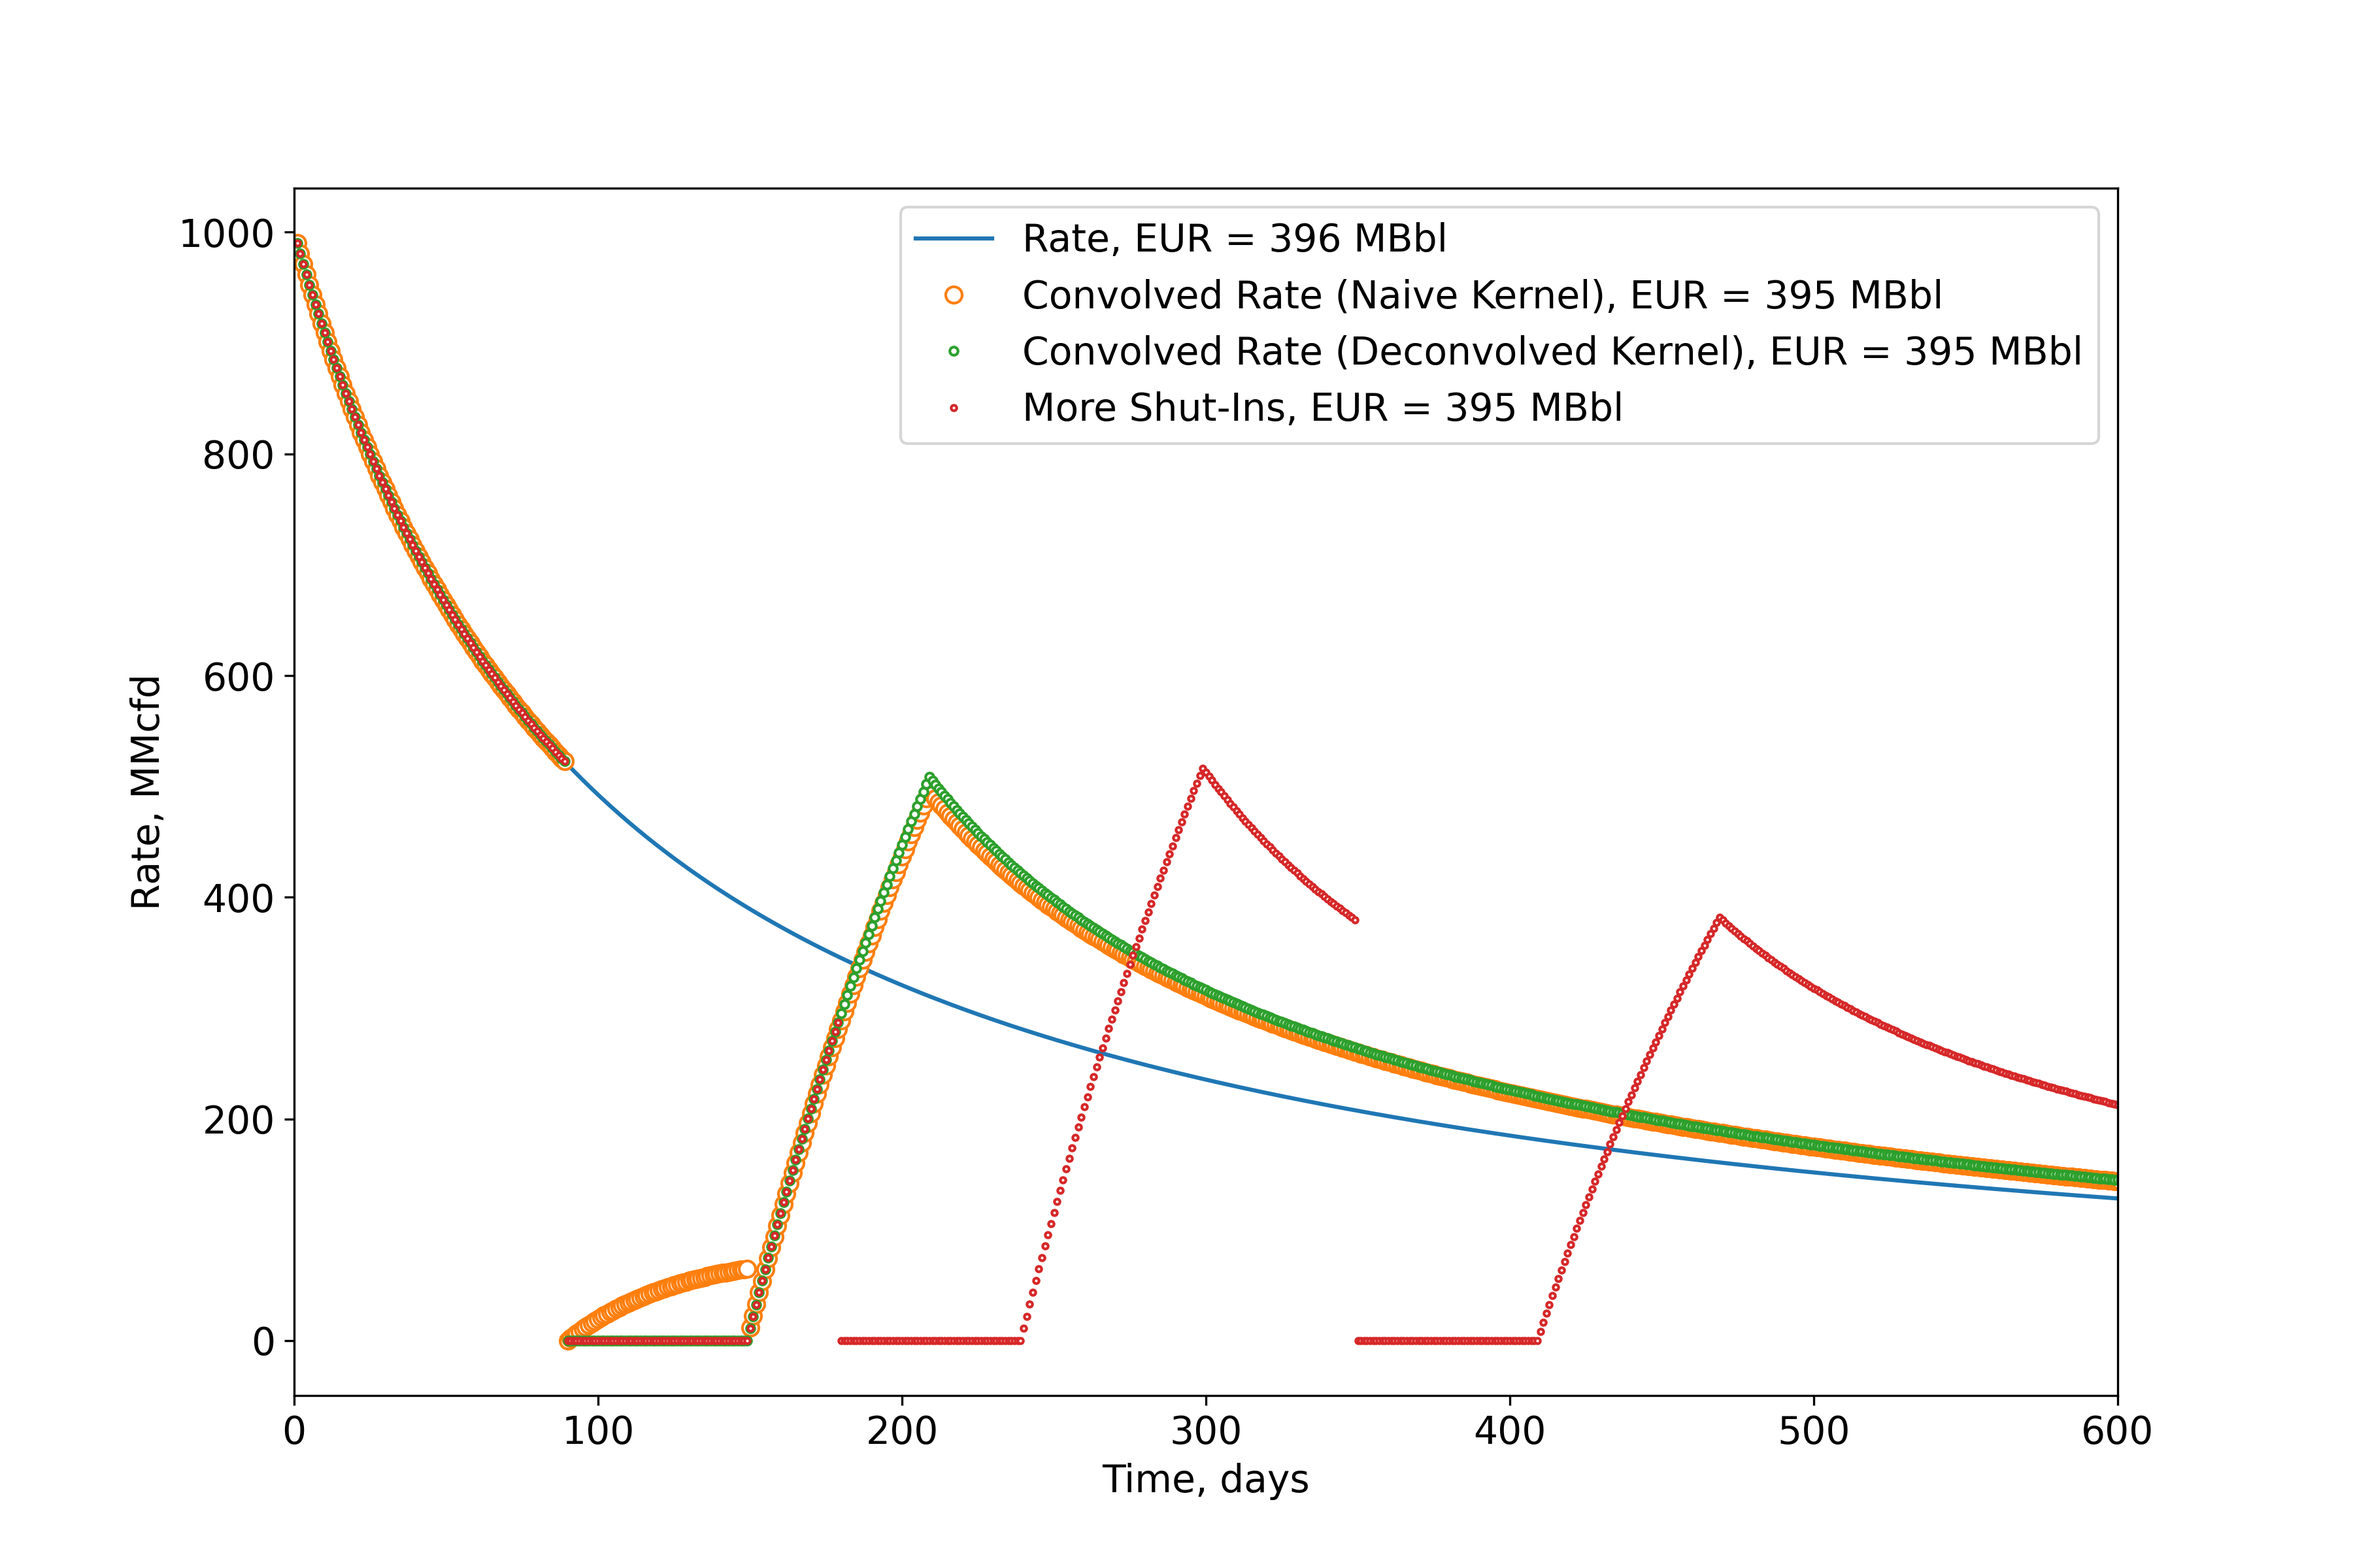
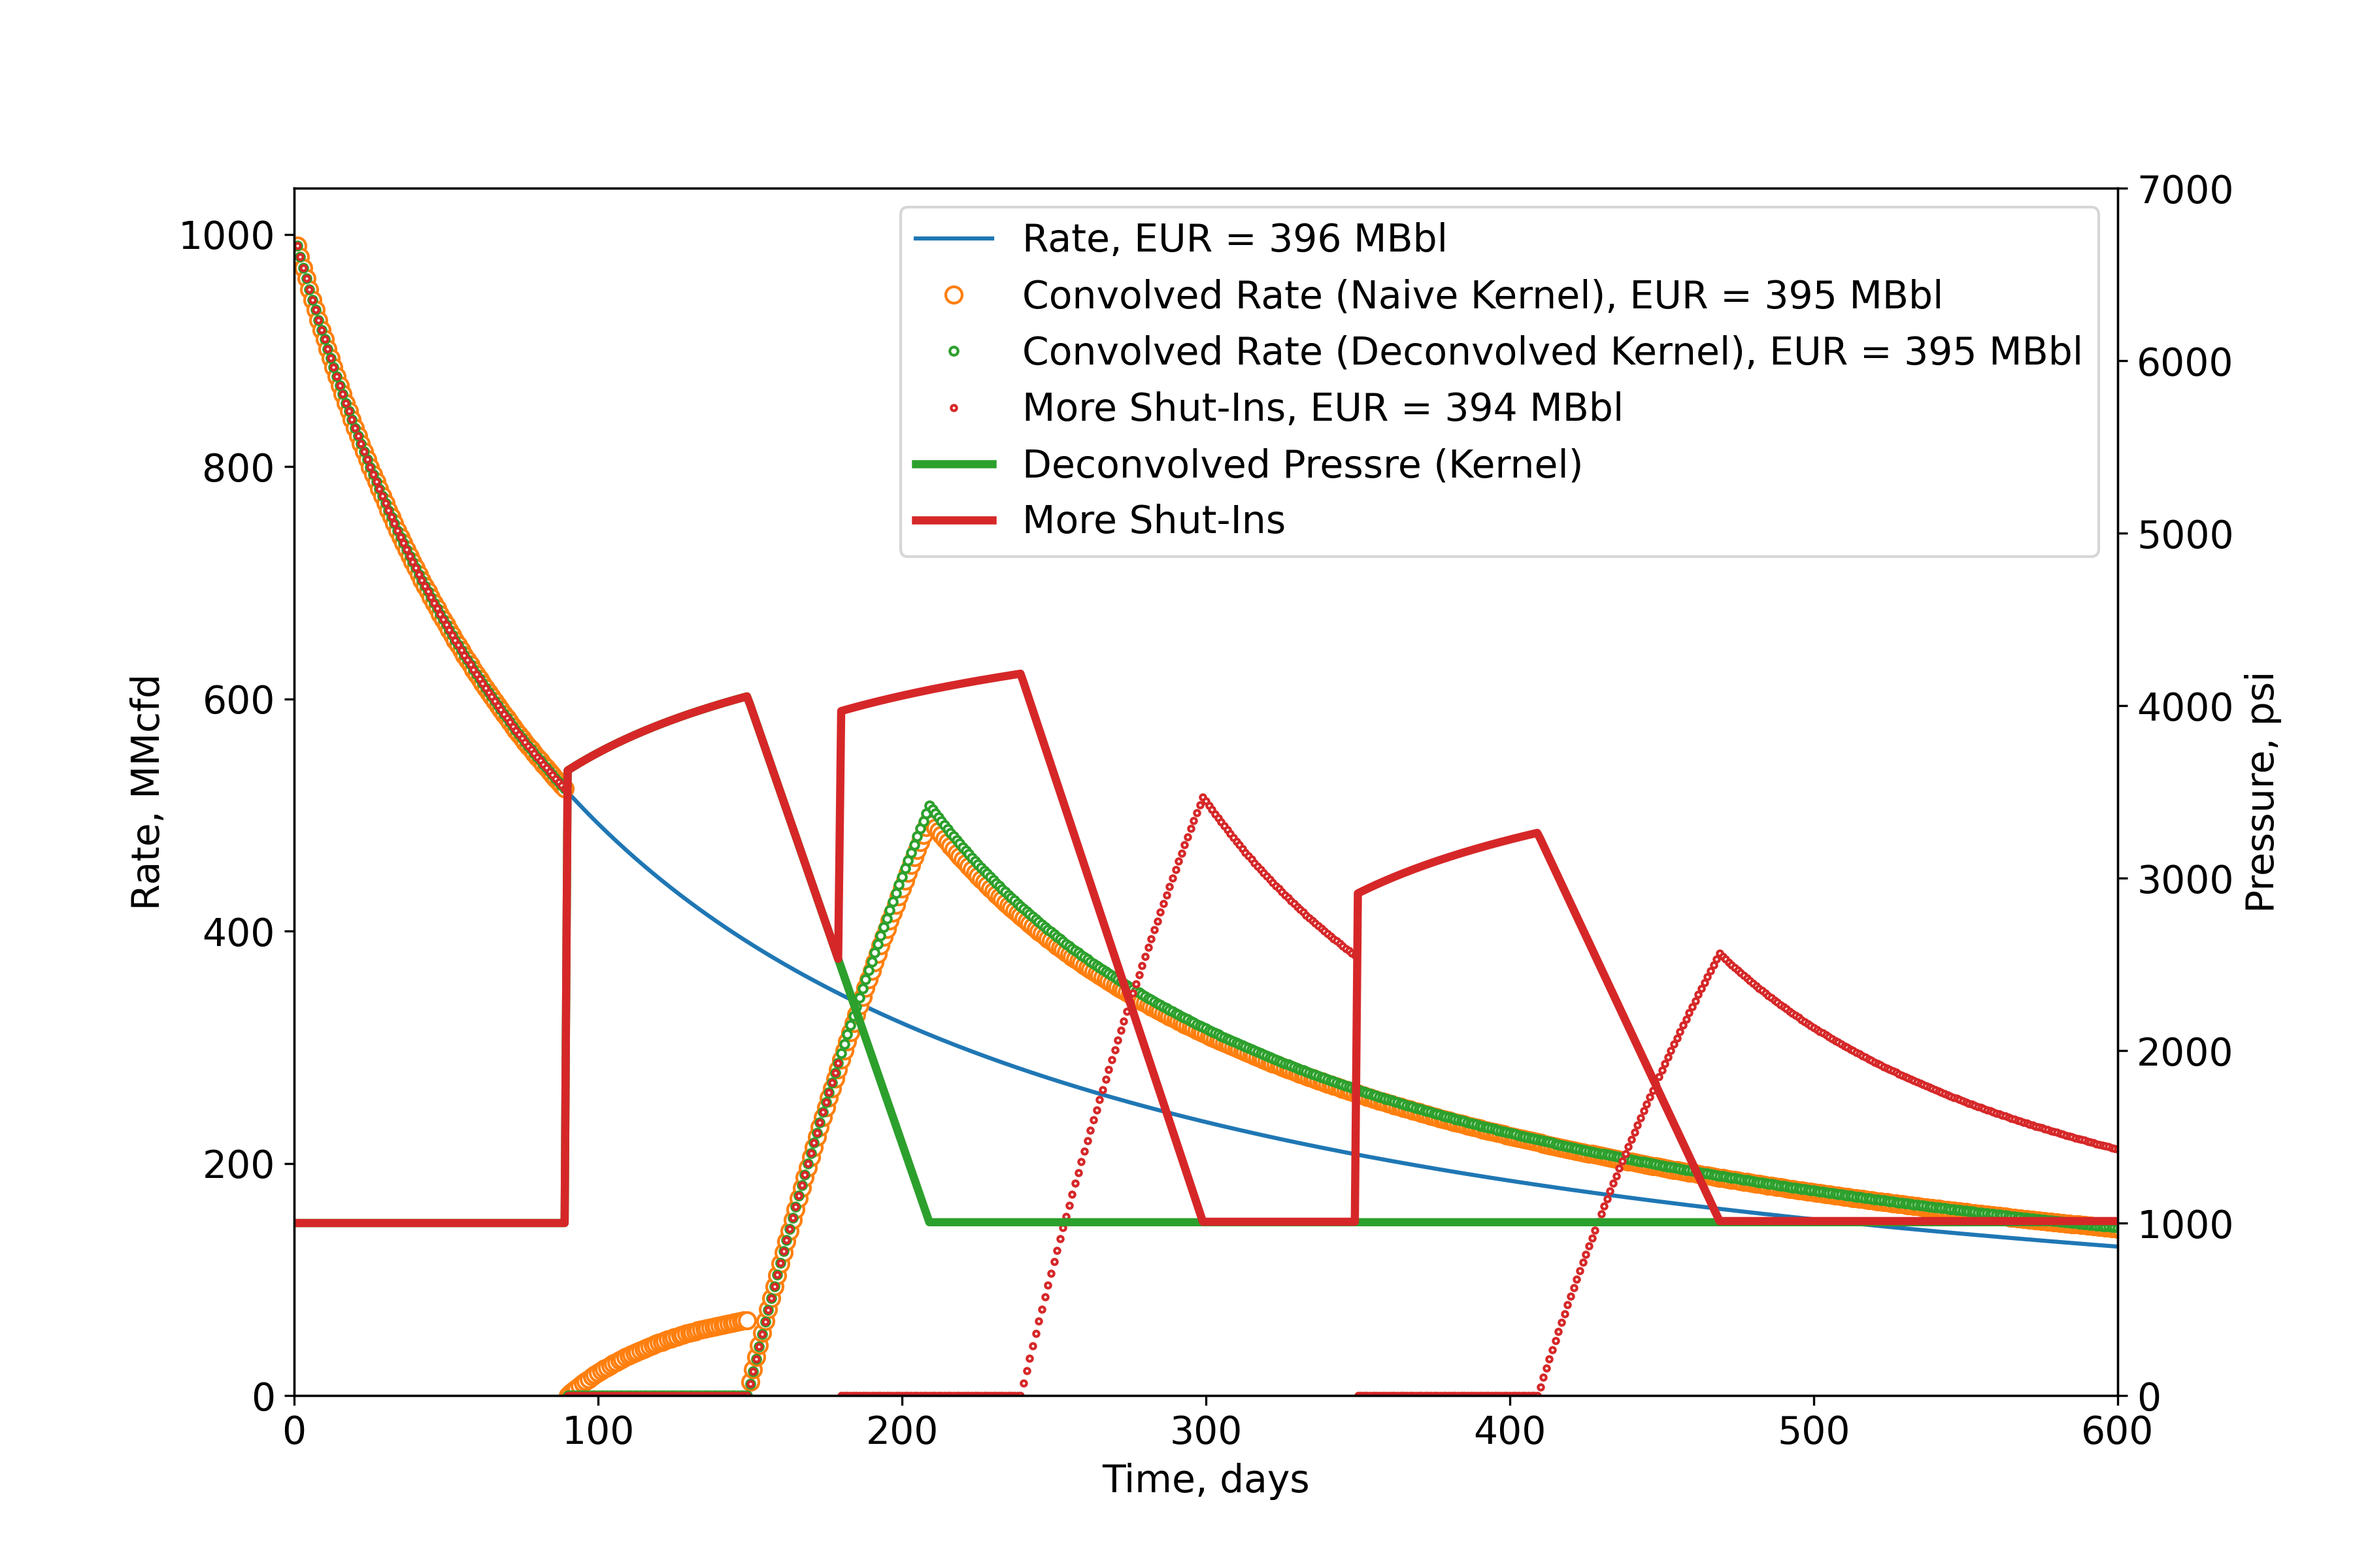
optimize stepwise convolution

diff --git a/shutin_deconv.py b/shutin_deconv.py
@@ -32,21 +32,24 @@ def convolve(x: NDFloat, k: NDFloat) -> NDFloat:
 
     return result
 
+
 @jit
-def convolve_step(x: NDFloat, k: NDFloat, start: int, end: int, result: NDFloat) -> NDFloat:
+def convolve_stepwise(x: NDFloat, k: NDFloat, start: int, end: int) -> None:
     b = len(k) - 1
 
     for i in range(start, min(end + 1, len(x))):
-        result[i] = 0
+        conv = 0
         hi = min(b, i)  # hi is the largest element of our kernel
         lo = max(0, i - b)  # lo is the element corresponding to the smallest element of our kernel
         for j in range(i + 1):
             if hi - j < 0:
                 break
 
-            result[i] += x[lo + j] * k[hi - j]
+            conv += x[lo + j] * k[hi - j]
 
-    return result
+        # this is equivalent to k[i] = 0 - conv, meaning we are solving for
+        # the kernel value that gives x = 0
+        k[i] -= conv
 
 
 def make_kernel(time: NDFloat) -> NDFloat:
@@ -83,10 +86,7 @@ def add_shutin_deconv(
 
     # We perform convolution step-by-step, making the kernel equal to the
     # prior convolution result at each step. This is equivalent to deconvolution.
-    conv_rates = np.zeros_like(time)
-    for i in range(start_idx, end_idx):
-        convolve_step(dimen_rate, kernel, i - 1, i, conv_rates)
-        kernel[i] -= conv_rates[i]
+    convolve_stepwise(dimen_rate, kernel, start_idx, end_idx)
 
     # lastly, we need to "makeup" for the shut-in by adding the rate back in
     # over the shut-in period
@@ -153,7 +153,7 @@ def main() -> None:
     add_shutin_deconv(kernel_deconv, rate, time, start_time, duration, buildup_time)
     rate_deconv = convolve(rate, kernel_deconv)
 
-    #more shut-in periods
+    # more shut-in periods
     kernel_lots = make_kernel(time)
     add_shutin_deconv(kernel_lots, rate, time, start_time, duration, buildup_time)
     add_shutin_deconv(kernel_lots, rate, time, start_time + duration + 30, duration, buildup_time)
@@ -171,8 +171,19 @@ def main() -> None:
     ax.plot(time, rate_lots, 'o', mec='C3', mfc='w', ms=2, lw=1.5,
             label=f'More Shut-Ins, EUR = {np.sum(rate_lots) / 1000:,.0f} MBbl')
 
-    ax.set(ylabel='Rate, MMcfd', xlabel='Time, days', xlim=(0, 600), ylim=(None, None))
-    ax.legend()
+    ax2 = ax.twinx()
+    p_deconv = 5000 * (1 - np.cumsum(kernel_deconv)) + 1000
+    p_lots = 5000 * (1 - np.cumsum(kernel_lots)) + 1000
+
+    ax2.plot(time, p_deconv, c='C2', lw=3, label='Deconvolved Pressre (Kernel)')
+    ax2.plot(time, p_lots, c='C3', lw=3, label='More Shut-Ins')
+
+    ax.set(ylabel='Rate, MMcfd', xlabel='Time, days', xlim=(0, 600), ylim=(0, None))
+    ax2.set(ylabel='Pressure, psi', ylim=(0, 7000))
+
+    h1, l1 = ax.get_legend_handles_labels()
+    h2, l2 = ax2.get_legend_handles_labels()
+    ax2.legend([*h1, *h2], [*l1, *l2], loc='upper right', ncol=1)
 
     plt.savefig('shutin_deconv.png', dpi=300)
     # plt.show()
